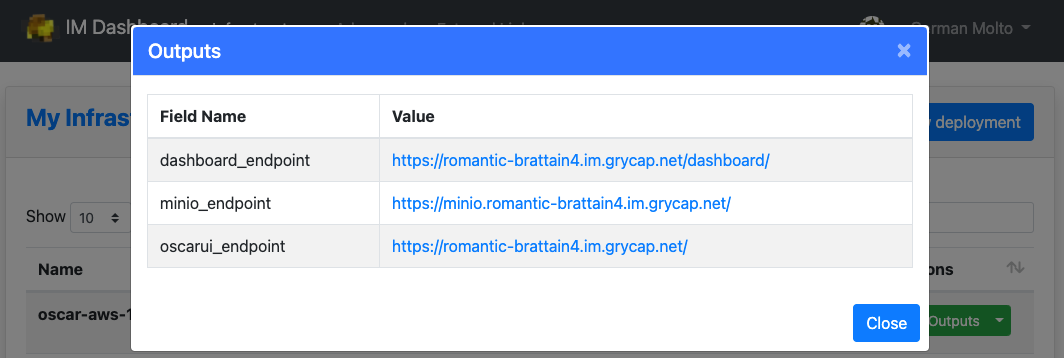
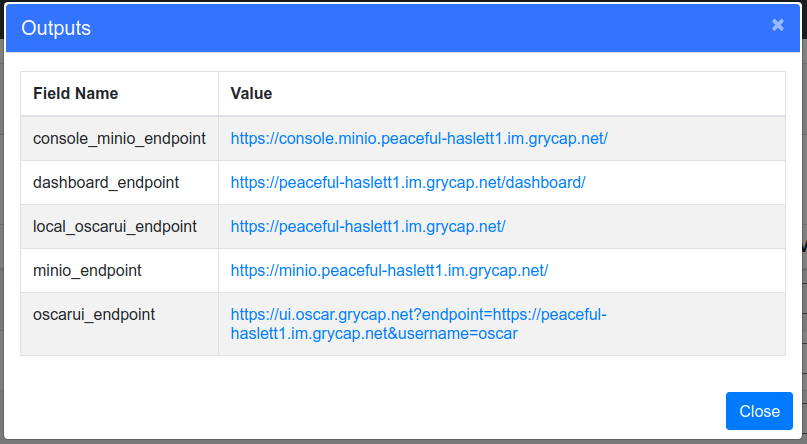
implementation of m42

diff --git a/docs/deploy-im-dashboard.md b/docs/deploy-im-dashboard.md
@@ -98,6 +98,20 @@ These are the steps:
     Once reached the "configured" state, see the "Outputs" to obtain the
     different endpoints:
 
+    * console_minio_endpoint: This endpoint brings access to MinIO web user
+        interfaces.
+    * dashboard_endpoint: This endpoint redirects to the Kubernetes dashboard
+        where the OSCAR cluster is built.
+    * local_oscarui_endpoint: This endpoint access to OSCAR user interface. In
+        this endpoint, only the user-password process authentication is
+        allowed. It can not be accessed with EGI credentials.
+    * minio_endpoint: Endpoint where MinIO is listening to a petition. If you
+        access it by the browser, you will be redirected to
+        "console_minio_endpoint".
+    * oscarui_endpoint: Endpoint of OSCAR user interfaces that EGI or
+        user-password credentials are available. In both cases, they need the
+        endpoint of the OSCAR variable.
+
     ![outputs](images/im-dashboard/im-dashboard-07.png)
 
     The OSCAR UI can be accessed with the username ``oscar`` and the password
